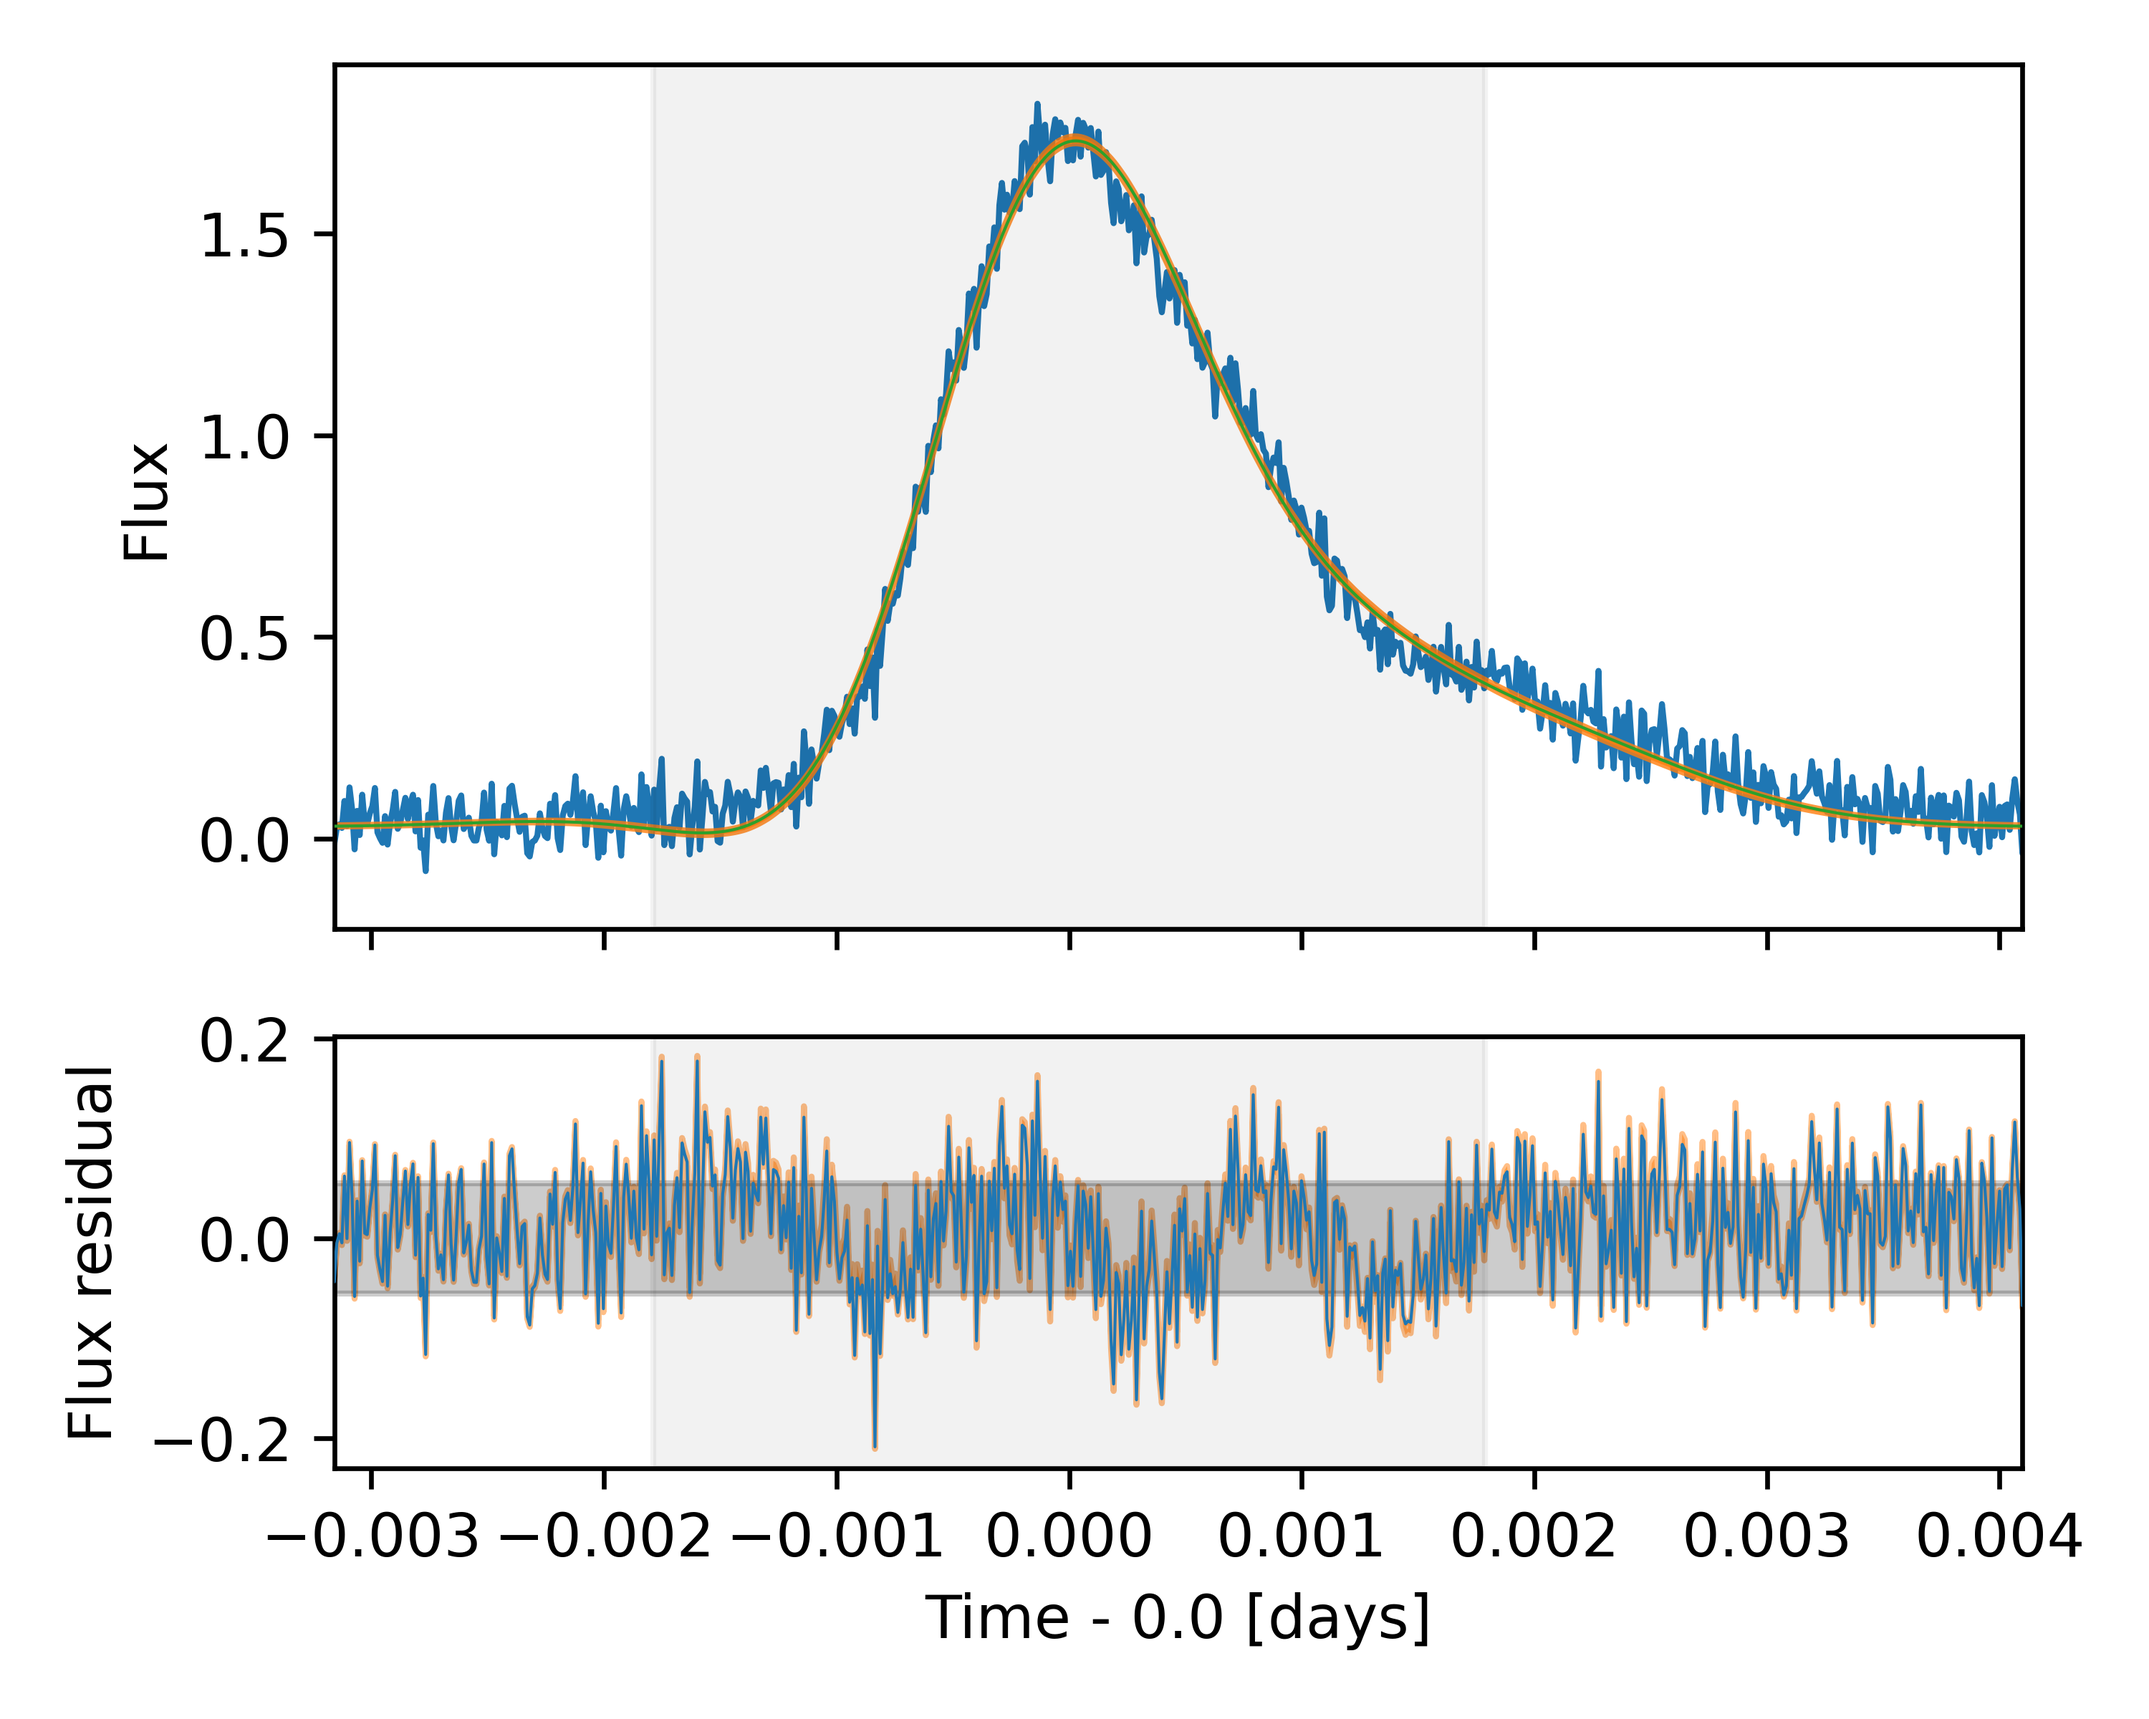
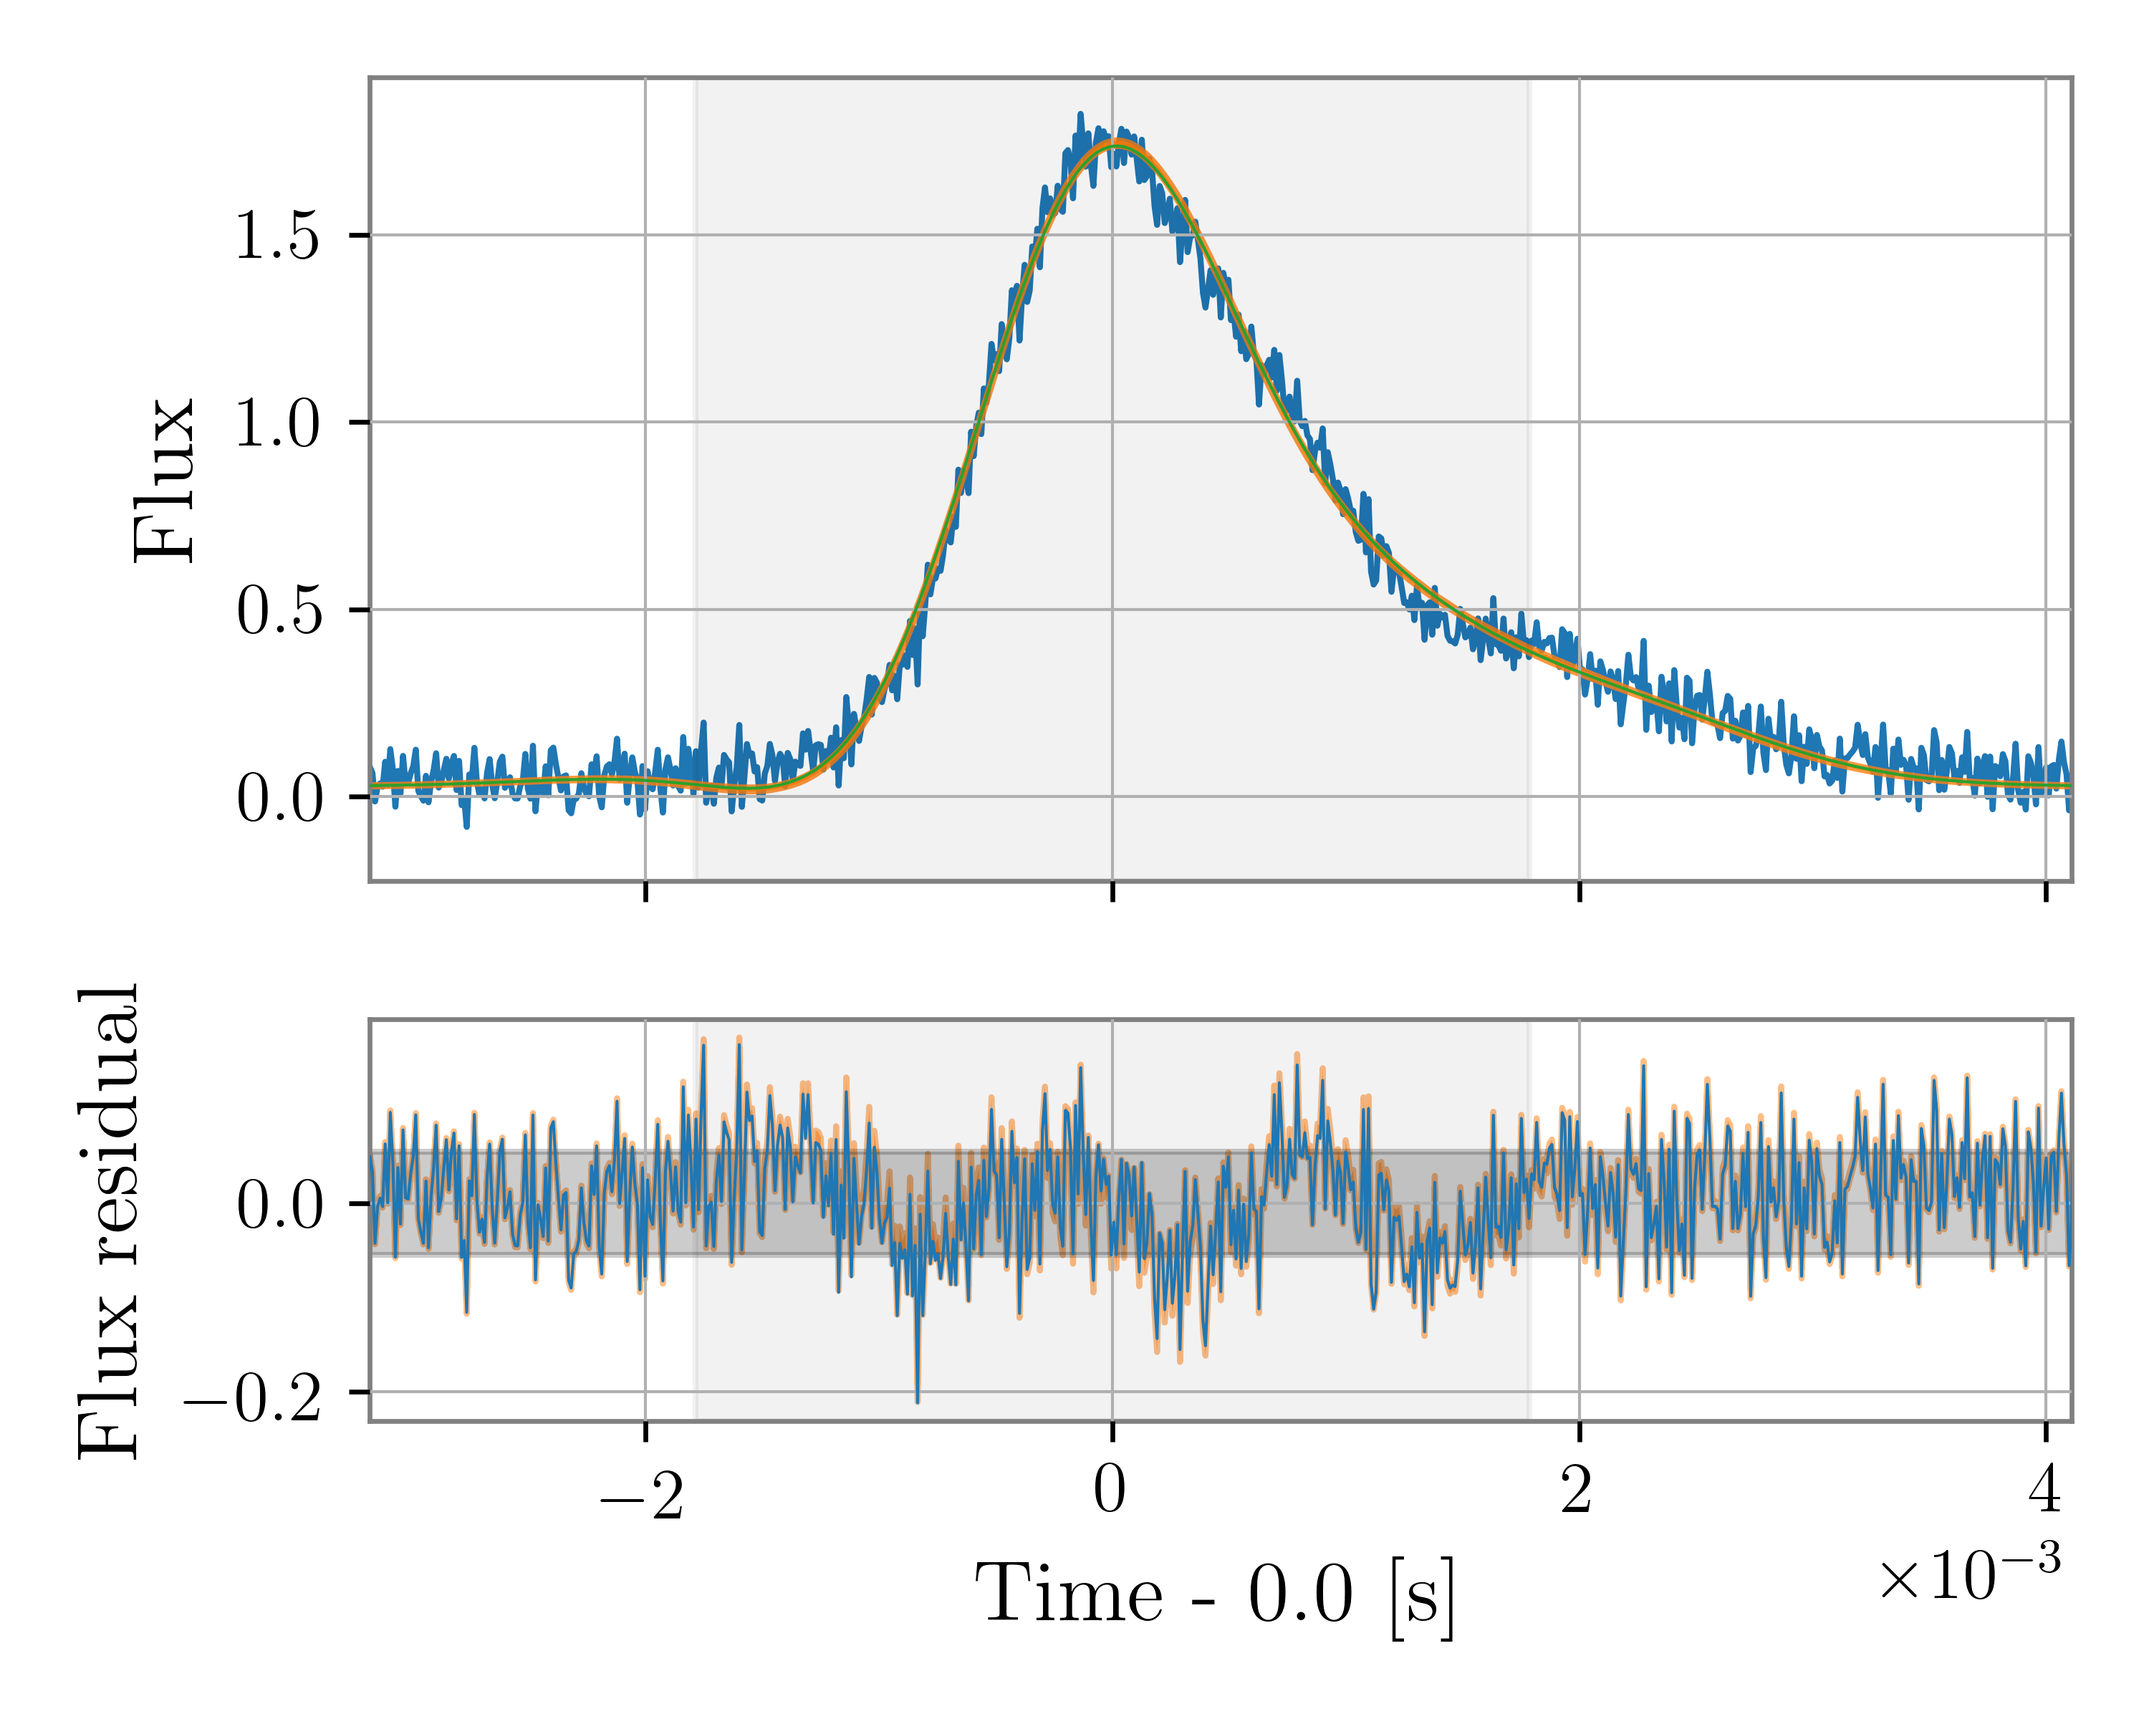
Update paper

diff --git a/paper/paper.md b/paper/paper.md
@@ -121,14 +121,23 @@ extra components. Above six, modest improvements are made as more subtle
 features get fit. Eventually, the Bayes factor will turn over and start to
 decrease as additional components fail to improve the fit, but incur extra
 losses from the increased prior space (also known as the Occam penalty
-[@mackay:2003]). In \autoref{fig:fit}, we show the output of kookaburra, for
-the 19-component model fit to the simulated data. From this fit, it is clear
-that we have not found a perfect fit for the data. In particular, the residual
-demonstrates structure indicating the existence of an improved model fit.
+[@mackay:2003]). 
 
 ![Bayes factor for the pulse vs null applied to simulated data similar to the Vela pulsar.\label{fig:bayes_factor}](bayes_factor.png)
 
-![Top panel: the simulated data (blue), maximum likelihood fit (green), and 90\% confidence interval (C.I.) of the fit (orange) for the 19-component shapelet model fit. Bottom panel: the residual after removing the maximum likelihood (blue) and 90\% C.I uncertainty (orange). A grey region indicates the user-settable prior region for the pulse time of arrival. \label{fig:fit}](fit_with_data.png)
+In \autoref{fig:fit}, we show the output of kookaburra, for the 20-component
+model fit to the simulated data. From this fit, it is clear that we have not
+found a perfect fit for the data. In particular, the residual demonstrates
+structure indicating the existence of an improved model fit. It is possible
+that increasing the number of components will eventually resolve this
+under-fitting. However, we find in this case that a model with 3 shapelets,
+each having 5 components improves the fit; see \autoref{fig:fit-fixed}. Here,
+we simply demonstrate that a fit can be achieved, studying the optimal choice
+of model is a future research project.
+
+![Top panel: the simulated data (blue), maximum likelihood fit (green), and 90\% confidence interval (C.I.) of the fit (orange) for the 20-component shapelet model fit. Bottom panel: the residual after removing the maximum likelihood (blue) and 90\% C.I uncertainty (orange). A grey region indicates the user-settable prior region for the pulse time of arrival. \label{fig:fit}](fit_with_data.png)
+
+![Top panel: the simulated data (blue), maximum likelihood fit (green), and 90\% confidence interval (C.I.) of the fit (orange) for the 3-shapelet model, each with 5 components. Bottom panel: the residual after removing the maximum likelihood (blue) and 90\% C.I uncertainty (orange). A grey region indicates the user-settable prior region for the pulse time of arrival. \label{fig:fit-fixed}](fit_with_data_555.png)
 
 # Validation
 
